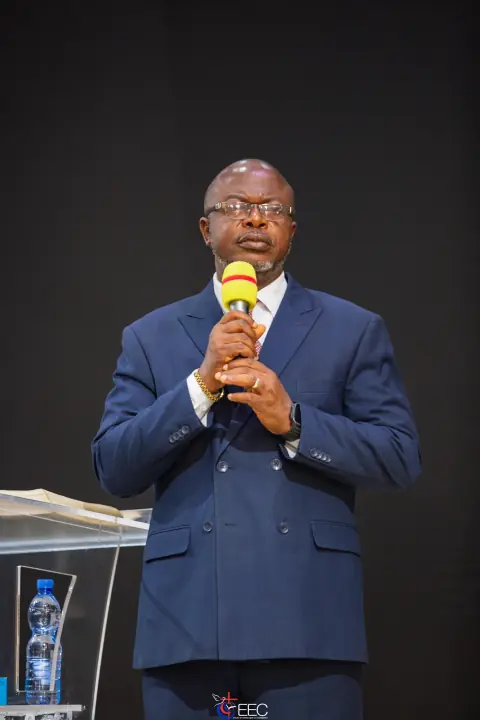
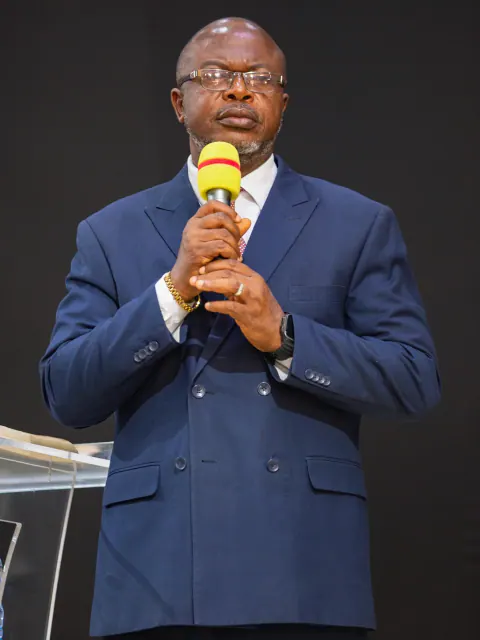
Portraits Richard Mukendi et Romain Kazadi recadrés et recompressés
Photos re-cadrées par le pasteur, réexportées en 800 px (qualité 80)
et déclinées en 480 px pour les connexions lentes : 296 Ko → 32 Ko
et 292 Ko → 52 Ko. Les variantes 480, supprimées avec les anciens
fichiers, sont régénérées car le srcSet les référence encore.
Cache du service worker en v10 pour purger les anciennes photos.

diff --git a/public/sw.js b/public/sw.js
@@ -1,4 +1,4 @@
-const CACHE_NAME = 'la-conquete-v9';
+const CACHE_NAME = 'la-conquete-v10';
 const PRECACHE_URLS = [
   '/',
   '/index.html',
